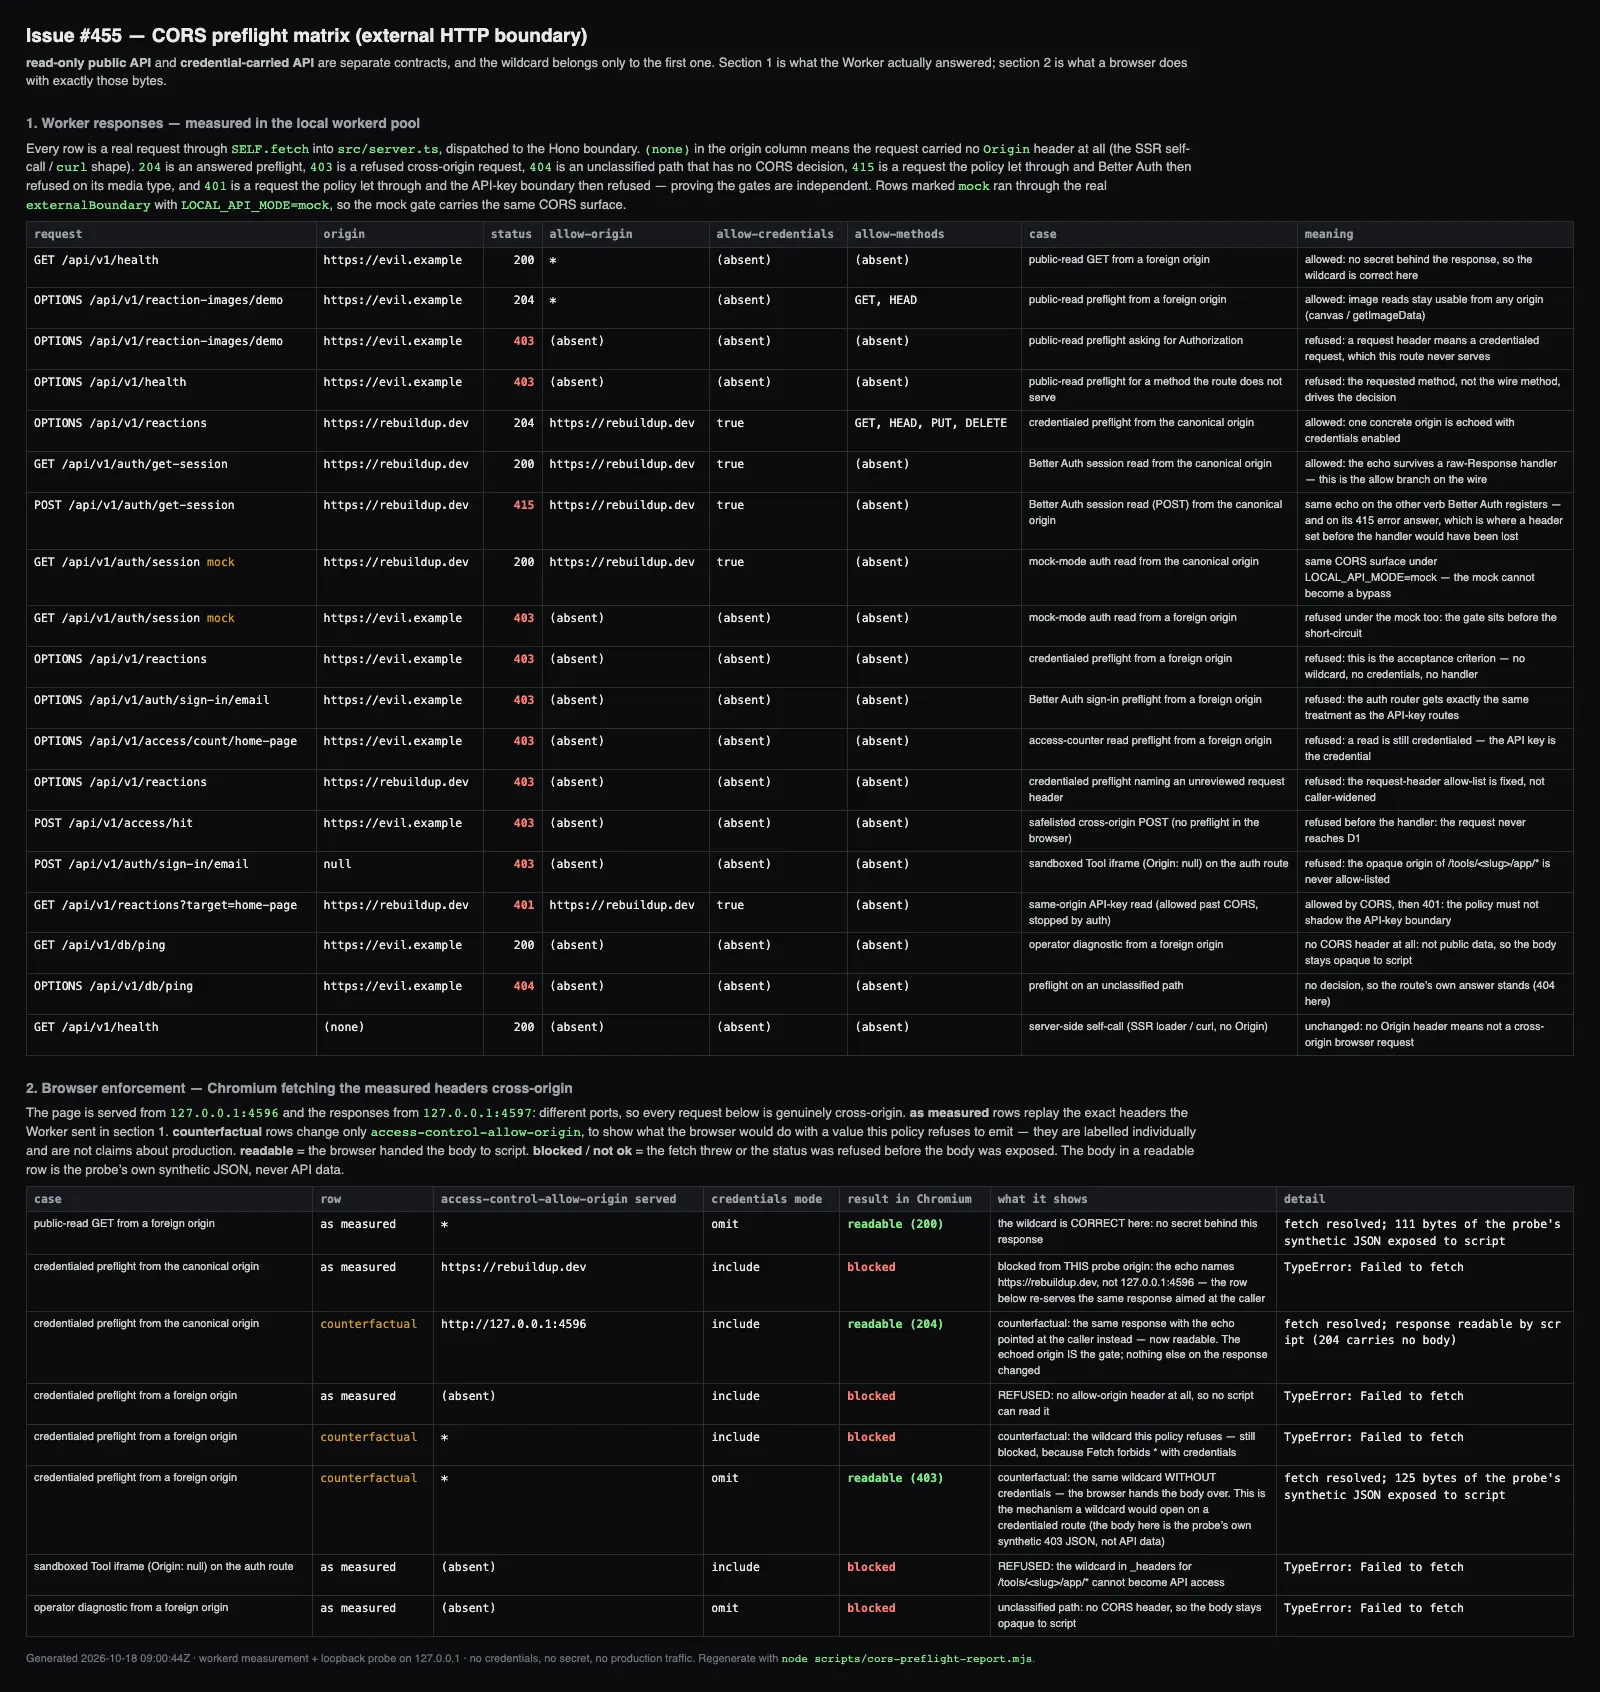
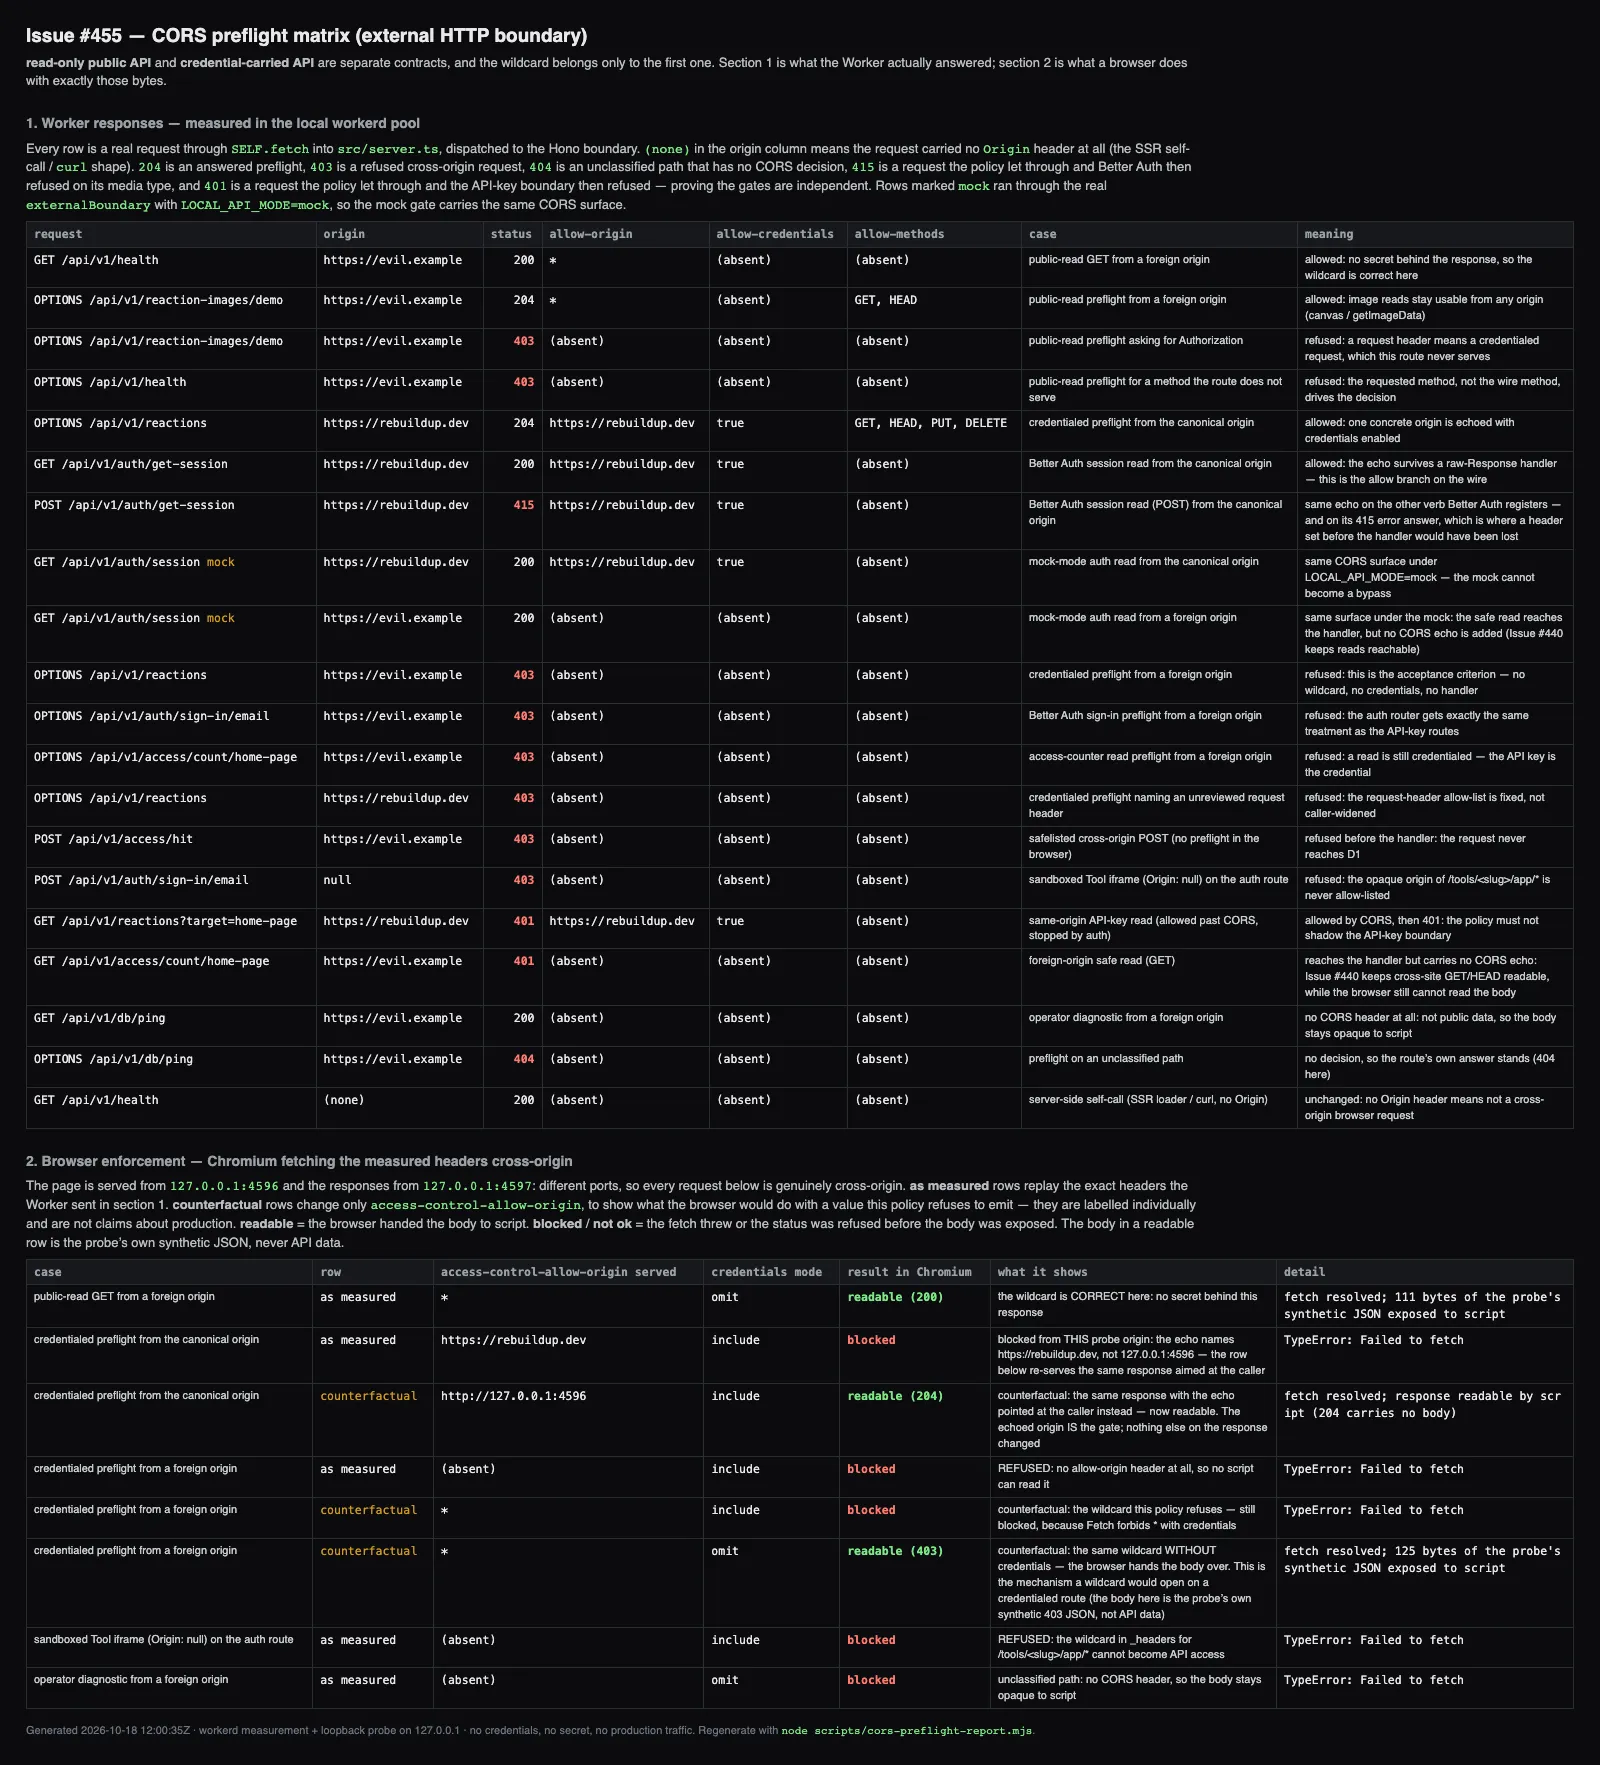
fix(http): keep cross-site safe reads reachable after the CORS split (#455)

diff --git a/src/http/cors/middleware.test.ts b/src/http/cors/middleware.test.ts
@@ -333,16 +333,36 @@ describe('corsMiddleware', () => {
 			expect(res.headers.get('access-control-allow-credentials')).toBe('true');
 		});
 
-		it('refuses a foreign origin on the same route', async () => {
+		it('refuses a foreign-origin write on the same route', async () => {
+			const { test, env } = rawResponseApp({ BETTER_AUTH_URL: CANONICAL });
+			const res = await test.request(
+				'/api/v1/auth/sign-in/email',
+				{
+					method: 'POST',
+					headers: { Origin: 'https://evil.example', 'Content-Type': 'application/json' },
+					body: '{}',
+				},
+				env,
+			);
+			expect(res.status).toBe(403);
+			expect(res.headers.get('access-control-allow-origin')).toBeNull();
+			expect(res.headers.get('access-control-allow-credentials')).toBeNull();
+		});
+
+		it('passes a foreign-origin safe read through without a CORS echo', async () => {
+			// Issue #440 keeps cross-site `GET`/`HEAD` reachable; the
+			// missing echo is what keeps the body unreadable to script.
 			const { test, env } = rawResponseApp({ BETTER_AUTH_URL: CANONICAL });
 			const res = await test.request(
 				'/api/v1/auth/get-session',
 				{ headers: { Origin: 'https://evil.example' } },
 				env,
 			);
-			expect(res.status).toBe(403);
+			expect(res.status).toBe(200);
+			expect(await res.json()).toEqual({ session: null });
 			expect(res.headers.get('access-control-allow-origin')).toBeNull();
 			expect(res.headers.get('access-control-allow-credentials')).toBeNull();
+			expect(res.headers.get('vary')).toBe('Origin');
 		});
 
 		it('gives the LOCAL_API_MODE=mock gate the same CORS surface', async () => {
@@ -357,13 +377,28 @@ describe('corsMiddleware', () => {
 			expect(res.headers.get('access-control-allow-origin')).toBe(CANONICAL);
 			expect(res.headers.get('access-control-allow-credentials')).toBe('true');
 
-			const refused = await mock.test.request(
+			const foreignRead = await mock.test.request(
 				'/api/v1/auth/session',
 				{ headers: { Origin: 'https://evil.example' } },
 				mock.env,
 			);
-			expect(refused.status).toBe(403);
-			expect(refused.headers.get('access-control-allow-origin')).toBeNull();
+			// The mock sees the same surface: a safe read reaches it, but
+			// with no allow-origin echo (and therefore no browser read).
+			expect(foreignRead.status).toBe(200);
+			expect(foreignRead.headers.get('access-control-allow-origin')).toBeNull();
+			expect(foreignRead.headers.get('access-control-allow-credentials')).toBeNull();
+
+			const refusedWrite = await mock.test.request(
+				'/api/v1/auth/sign-in/email',
+				{
+					method: 'POST',
+					headers: { Origin: 'https://evil.example', 'Content-Type': 'application/json' },
+					body: '{}',
+				},
+				mock.env,
+			);
+			expect(refusedWrite.status).toBe(403);
+			expect(refusedWrite.headers.get('access-control-allow-origin')).toBeNull();
 		});
 
 		it('falls back to Hono when the response headers are immutable', async () => {

diff --git a/src/http/cors/policy.ts b/src/http/cors/policy.ts
@@ -25,14 +25,22 @@
  *     prefixes. No CORS header is emitted at all, so a browser treats
  *     the response as opaque to script.
  *
- * Every third behavior is **refusal**. A cross-origin preflight (or an
- * actual cross-origin request) that carries an origin outside the
+ * Everything else is **refusal**. A cross-origin preflight, or an
+ * actual cross-origin write, that carries an origin outside the
  * allow-list, asks for a method the route does not serve, or asks for a
  * request header outside the fixed allow-list, is answered `403` with a
  * stable error code and **no CORS header at all**. Failing closed is
  * observable (`403 cors_origin_rejected` in a log, a request id to
  * correlate) instead of the silent `204` a permissive preflight handler
  * would produce.
+ *
+ * The one exception is an actual (non-preflight) `GET`/`HEAD` from an
+ * origin outside the allow-list: it reaches the handler with no
+ * `Access-Control-Allow-Origin`, so a browser still cannot read the
+ * body, but a cross-site read stays non-destructive. Issue #440's CSRF
+ * contract records `GET`/`HEAD` as unaffected by the origin check, and
+ * refusing them here would turn a CORS concern into a server-side read
+ * outage for non-browser clients that set `Origin`.
  *
  * Origin allow-list sources (in resolution order, all of them runtime
  * inputs — this module holds no origin literal):
@@ -271,6 +279,17 @@ function servesRequestedMethod(route: CorsRoute, method: string): boolean {
 	return route.methods.includes(wanted);
 }
 
+/**
+ * Is this an actual (non-preflight) request whose method carries no
+ * state change? `GET`/`HEAD` are the only methods Issue #440 treats as
+ * unconditionally safe, and they are the only ones that may proceed
+ * without a CORS echo.
+ */
+function isSafeReadMethod(method: string): boolean {
+	const wanted = method.toUpperCase();
+	return wanted === 'GET' || wanted === 'HEAD';
+}
+
 function refuse(
 	route: CorsRoute,
 	code: CorsRefusalCode,
@@ -320,6 +339,15 @@ export function decideCors(input: CorsDecisionInput): CorsDecision {
 
 	if (route.klass === 'credentialed') {
 		if (!isAllowedOrigin(input.origin, [input.requestOrigin, ...input.extraAllowedOrigins])) {
+			// A safe read from a foreign origin still reaches the handler
+			// (`Vary: Origin`, no allow-origin pair), so the browser
+			// cannot read it but Issue #440's "cross-site reads stay
+			// readable" contract and non-browser clients that set an
+			// `Origin` header keep working. Preflights and every
+			// state-changing method still fail closed.
+			if (!input.preflight && isSafeReadMethod(input.method)) {
+				return { kind: 'passthrough', klass: route.klass, headers: base };
+			}
 			return refuse(route, 'cors_origin_rejected', base);
 		}
 		if (!allowed) {

diff --git a/test/integration/csrf-contract.test.ts b/test/integration/csrf-contract.test.ts
@@ -135,7 +135,7 @@ beforeEach(async () => {
 });
 
 describe('Hono boundary: cross-site writes are refused (negative case)', () => {
-	it('refuses a cross-site PUT and leaves no row behind', async () => {
+	it('refuses a cross-site PUT (CORS owns this origin refusal) and leaves no row behind', async () => {
 		const res = await SELF.fetch(`${ORIGIN}/api/v1/reactions`, {
 			method: 'PUT',
 			headers: {
@@ -149,9 +149,13 @@ describe('Hono boundary: cross-site writes are refused (negative case)', () => {
 		});
 
 		expect(res.status).toBe(403);
+		// The request carries an origin outside the CORS allow-list, and
+		// the CORS layer (Issue #455) is mounted ahead of this guard, so
+		// it owns the refusal. The outcome the CSRF contract requires —
+		// a write with a valid credential never reaches D1 — is the same.
 		expect(await res.json()).toEqual({
-			error: 'csrf_rejected',
-			reason: 'cross_site_fetch_metadata',
+			error: 'cors_origin_rejected',
+			class: 'credentialed',
 		});
 		// The credential was valid; the origin check is what stopped it.
 		expect(await countReactions()).toBe(0);
@@ -176,7 +180,11 @@ describe('Hono boundary: cross-site writes are refused (negative case)', () => {
 			headers: {
 				authorization: `Bearer ${apiKey}`,
 				'content-type': 'application/json',
-				origin: CROSS_SITE_ORIGIN,
+				// A CORS-allow-listed Origin, but browser fetch metadata
+				// says the request started cross-site: the CSRF guard,
+				// not the CORS layer, must refuse this one.
+				origin: ORIGIN,
+				'sec-fetch-site': 'cross-site',
 			},
 			body: REACTION_BODY,
 		});

diff --git a/src/http/cors/policy.test.ts b/src/http/cors/policy.test.ts
@@ -155,6 +155,29 @@ describe('credentialed routes', () => {
 		expect(decision.headers['Access-Control-Allow-Credentials']).toBeUndefined();
 	});
 
+	it('lets a foreign-origin safe read reach the handler without a CORS echo', () => {
+		for (const method of ['GET', 'HEAD']) {
+			const decision = decide({ path: '/api/v1/reactions', method, origin: EVIL });
+			expect(decision.kind).toBe('passthrough');
+			if (decision.kind !== 'passthrough') throw new Error('unreachable');
+			expect(decision.headers['Access-Control-Allow-Origin']).toBeUndefined();
+			expect(decision.headers['Access-Control-Allow-Credentials']).toBeUndefined();
+			expect(decision.headers.Vary).toBe('Origin');
+		}
+	});
+
+	it('still refuses a foreign-origin preflight that asks for GET', () => {
+		const decision = decide({
+			path: '/api/v1/access/count/home-page',
+			method: 'GET',
+			origin: EVIL,
+			preflight: true,
+		});
+		expect(decision.kind).toBe('refuse');
+		if (decision.kind !== 'refuse') throw new Error('unreachable');
+		expect(decision.code).toBe('cors_origin_rejected');
+	});
+
 	it('refuses the opaque `null` origin', () => {
 		const decision = decide({ path: '/api/v1/auth/sign-in/email', method: 'POST', origin: 'null' });
 		expect(decision.kind).toBe('refuse');

diff --git a/test/integration/cors.test.ts b/test/integration/cors.test.ts
@@ -188,13 +188,14 @@ const PROBES: readonly Probe[] = [
 	},
 	{
 		label: 'mock-mode auth read from a foreign origin',
-		meaning: 'refused under the mock too: the gate sits before the short-circuit',
+		meaning:
+			'same surface under the mock: the safe read reaches the handler, but no CORS echo is added (Issue #440 keeps reads reachable)',
 		method: 'GET',
 		path: '/api/v1/auth/session',
 		origin: EVIL,
 		mockMode: true,
 		expectClass: 'credentialed',
-		expectStatus: 403,
+		expectStatus: 200,
 		expectAllowOrigin: ABSENT,
 		expectCredentials: ABSENT,
 	},
@@ -281,6 +282,18 @@ const PROBES: readonly Probe[] = [
 		expectStatus: 401,
 		expectAllowOrigin: ORIGIN,
 		expectCredentials: 'true',
+	},
+	{
+		label: 'foreign-origin safe read (GET)',
+		meaning:
+			'reaches the handler but carries no CORS echo: Issue #440 keeps cross-site GET/HEAD readable, while the browser still cannot read the body',
+		method: 'GET',
+		path: '/api/v1/access/count/home-page',
+		origin: EVIL,
+		expectClass: 'credentialed',
+		expectStatus: 401,
+		expectAllowOrigin: ABSENT,
+		expectCredentials: ABSENT,
 	},
 	{
 		label: 'operator diagnostic from a foreign origin',

diff --git a/docs/security.md b/docs/security.md
@@ -71,6 +71,14 @@ it:
 `referer_mismatch`, `origin_check_missing`. It names the header that
 failed, never its value.
 
+One precedence note: the CORS layer (Issue #455) is mounted ahead of
+this guard, so a write whose `Origin` is outside its allow-list is
+refused there first, with `{ "error": "cors_origin_rejected" }`. The
+CSRF contract is unaffected — both refusals are `403` before
+authentication or D1 — and a request whose `Origin` *is* allow-listed
+but whose `Sec-Fetch-Site` says `cross-site` still gets
+`csrf_rejected`.
+
 The guard is mounted in `src/http/hono.ts` after the local mock gate
 and the request-id middleware, and before every router — so a refused
 cross-site write never reaches authentication, rate limiting, or D1.
@@ -230,8 +238,11 @@ The external boundary splits its routes into three origin classes
   `/api/v1/reactions`. The response echoes **one** allow-listed origin
   plus `Access-Control-Allow-Credentials: true`, restricted to a fixed
   method and request-header allow-list. Any other origin — including the
-  opaque `null` origin a sandboxed Tool iframe sends — is refused with
-  `403` and no CORS header.
+  opaque `null` origin a sandboxed Tool iframe sends — gets `403` and no
+  CORS header for preflights and state-changing requests. A `GET`/`HEAD`
+  from a foreign origin still reaches the handler (Issue #440's CSRF
+  contract keeps safe reads unaffected) but carries no CORS echo, so the
+  browser cannot read the body.
 - `public-read` — `/api/v1/health` and `/api/v1/reaction-images/:id`.
   `Access-Control-Allow-Origin: *`, and never a credentials header.
 - `none` — everything else, including `/api/v1/db/ping`,

diff --git a/docs/security/cache-isolation.md b/docs/security/cache-isolation.md
@@ -18,7 +18,7 @@ The rule this repository enforces:
 
 | Response | `Cache-Control` | `Vary` |
 | --- | --- | --- |
-| Anything caller-specific (see below) | `private, no-store` | `Cookie, Authorization` |
+| Anything caller-specific (see below) | `private, no-store` | `Cookie, Authorization` (`Origin` too on credentialed CORS routes) |
 | Caller-specific SSR document | `private, no-cache` | `Cookie, Authorization` |
 | Public document (no cookie, no `Authorization`, no `Set-Cookie`) | `no-cache` | — |
 | `/admin*` (any response) | `no-store` | `Cookie, Authorization` |
@@ -63,7 +63,14 @@ Deny by default, opt in explicitly:
   `Vary: Cookie, Authorization`. The rewrite is monotone: the result
   is never weaker than what it replaced, so it can only tighten a
   handler's own policy (Better Auth's session `no-store` is kept as a
-  subset).
+  subset). Responses whose route is `credentialed` for CORS (Issue
+  #455) also carry `Vary: Origin`: the CORS layer runs *inside* this
+  one and renders `Origin` first, then `mergeVary` appends the
+  identity fields, producing `Origin, Cookie, Authorization`. That
+  order is deliberate — if it were reversed, a CORS `set('Vary', …)`
+  would erase the isolation fields. `test/integration/cache-isolation.test.ts`
+  pins the merged value on `/api/v1/reactions` and
+  `/api/v1/auth/get-session`; see `docs/security/api-cors.md` §4.
 - An explicit public opt-in is left completely untouched, `Vary`
   included. Adding `Vary: Cookie` to a public immutable image would
   fragment the shared cache per visitor and change nothing about
